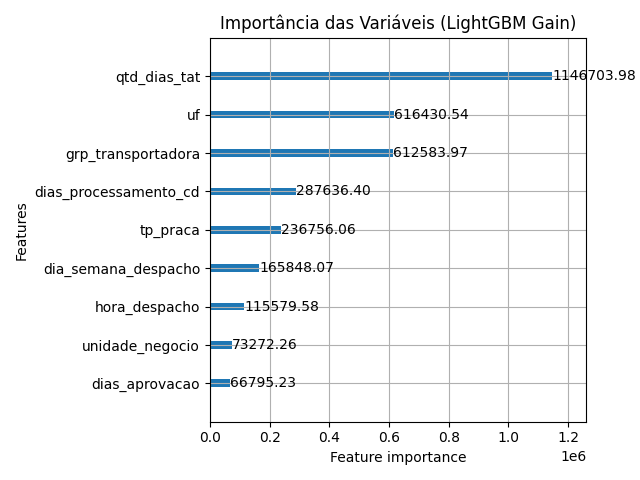
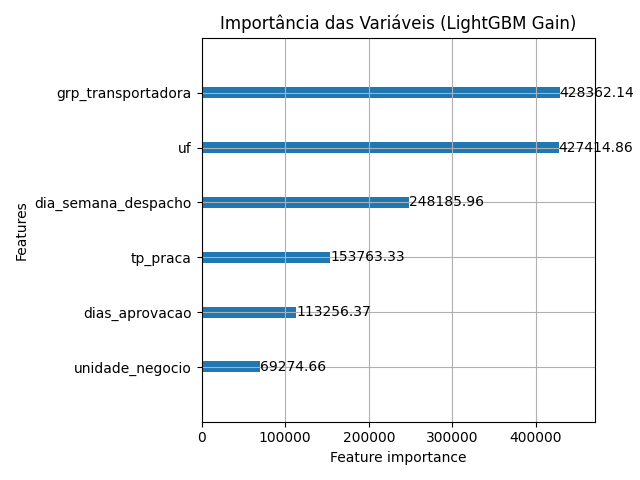
ajustes de variaveis para treinamento

diff --git a/daniel/logistica/train_model-lightgbm-classification-grid.py b/daniel/logistica/train_model-lightgbm-classification-grid.py
@@ -3,7 +3,8 @@ import numpy as np
 import lightgbm as lgb
 import matplotlib.pyplot as plt
 import os
-from sklearn.model_selection import train_test_split
+from sklearn.model_selection import train_test_split, ParameterGrid
+from sklearn.metrics import precision_recall_curve, auc
 
 # Importar lógica de preparação de dados existente
 from data_preparation import load_and_clean_data
@@ -52,8 +53,12 @@ def train_lgbm(df):
     # 2. Definição de Features e Alvo
     # Categóricas (Nativas do LightGBM)
     cat_features = ['uf', 'grp_transportadora', 'tp_praca', 'unidade_negocio', 'dia_semana_despacho']
+
+    # Alerta Crítico: Se qtd_dias_tat e dias_processamento_cd são calculados usando a dt_entrega ou dt_despacho, elas não podem ser features do modelo de classificação.
+    # Por que? No momento em que você quer prever se um pedido vai atrasar (enquanto ele ainda está no CD), você ainda não sabe qual será o qtd_dias_tat real.
+    # Se o modelo usa o "tempo total de entrega" para prever "se vai atrasar", ele vai "adivinhar" o resultado perfeitamente no treino, mas falhará totalmente na vida real (onde essa informação é o que você quer descobrir, não o que você já tem).
+    
     # Numéricas
-    #num_features = ['qtd_dias_tat', 'dias_aprovacao', 'dias_processamento_cd', 'hora_despacho']
     num_features = ['dias_aprovacao']
     
     target = 'is_atrasado'
@@ -77,39 +82,63 @@ def train_lgbm(df):
     
     print(f"\nConfigurando scale_pos_weight: {spw:.2f} (Classe 'Atrasado' é minoritária)")
 
-    # 4. Configuração do Modelo
-    params = {
+    # 4. Grade de Hiperparâmetros para Calibração (GRID)
+    param_grid = {
+        'learning_rate': [0.01, 0.05, 0.1],
+        'num_leaves': [31, 64, 128],
+        'max_depth': [10, 15, -1],
+        'feature_fraction': [0.7, 0.8, 0.9]
+    }
+
+    # Parâmetros base (fixos)
+    base_params = {
         'objective': 'binary',
         'metric': 'auc',
         'boosting_type': 'gbdt',
-        'scale_pos_weight': spw,
-        'learning_rate': 0.05,
-        'num_leaves': 128,
-        'max_depth': -1,
-        'feature_fraction': 0.8,
+        'scale_pos_weight': spw, # Calculado anteriormente
         'bagging_fraction': 0.8,
         'bagging_freq': 5,
         'verbose': -1,
         'seed': 42
     }
-
-    print("Iniciando treinamento com LightGBM...")
+    best_auc = 0
+    best_model = None
+    best_params = {}
+    print(f"\nIniciando busca de hiperparâmetros ({len(list(ParameterGrid(param_grid)))} combinações)...")
     
     train_set = lgb.Dataset(X_train, label=y_train, categorical_feature=cat_features)
     val_set = lgb.Dataset(X_val, label=y_val, reference=train_set, categorical_feature=cat_features)
-    
-    model = lgb.train(
-        params,
-        train_set,
-        valid_sets=[train_set, val_set],
-        num_boost_round=1000,
-        callbacks=[
-            lgb.early_stopping(stopping_rounds=50),
-            lgb.log_evaluation(period=50)
-        ]
-    )
-
-    return model, holdout_data, cat_features + num_features
+    # LOOP DE CALIBRAÇÃO
+    for g_params in ParameterGrid(param_grid):
+        current_params = base_params.copy()
+        current_params.update(g_params) # Atualiza com a combinação do loop
+        
+        # Treino rápido com early stopping
+        model = lgb.train(
+            current_params,
+            train_set,
+            valid_sets=[val_set], 
+            num_boost_round=500,
+            callbacks=[
+                lgb.early_stopping(stopping_rounds=30),
+                lgb.log_evaluation(period=0) # Silencioso durante o loop
+            ]
+        )
+        
+        # Verifica se essa combinação é a melhor até agora
+        current_auc = model.best_score['valid_0']['auc']
+        if current_auc > best_auc:
+            best_auc = current_auc
+            best_model = model
+            best_params = g_params
+            print(f"-> Novo melhor AUC: {best_auc:.4f} usando {g_params}")
+    print(f"\n--- Calibração Concluída ---")
+    print(f"Melhor AUC alcançado: {best_auc:.4f}")
+    print(f"Parâmetros vencedores: {best_params}")
+    # --- Calibração Concluída ---
+    # Melhor AUC alcançado: 0.8242
+    # Parâmetros vencedores: {'feature_fraction': 0.8, 'learning_rate': 0.05, 'max_depth': -1, 'num_leaves': 128}
+    return best_model, holdout_data, cat_features + num_features
 
 def run_daily_operational_simulation(model, holdout_data, features, start_date='2023-12-05', window_days=8):
     """
@@ -187,6 +216,9 @@ if __name__ == "__main__":
     # 1. Carregar e Limpar (Manter IDs para Simulação de Dashboard)
     input_file = "pedidos_logistica.parquet"
     df = load_and_clean_data(input_file, drop_ids=False)
+
+    print(df.info())
+    print(df.head())
     
     if df is not None:
         df_lgbm = prepare_data_for_lgbm(df)
